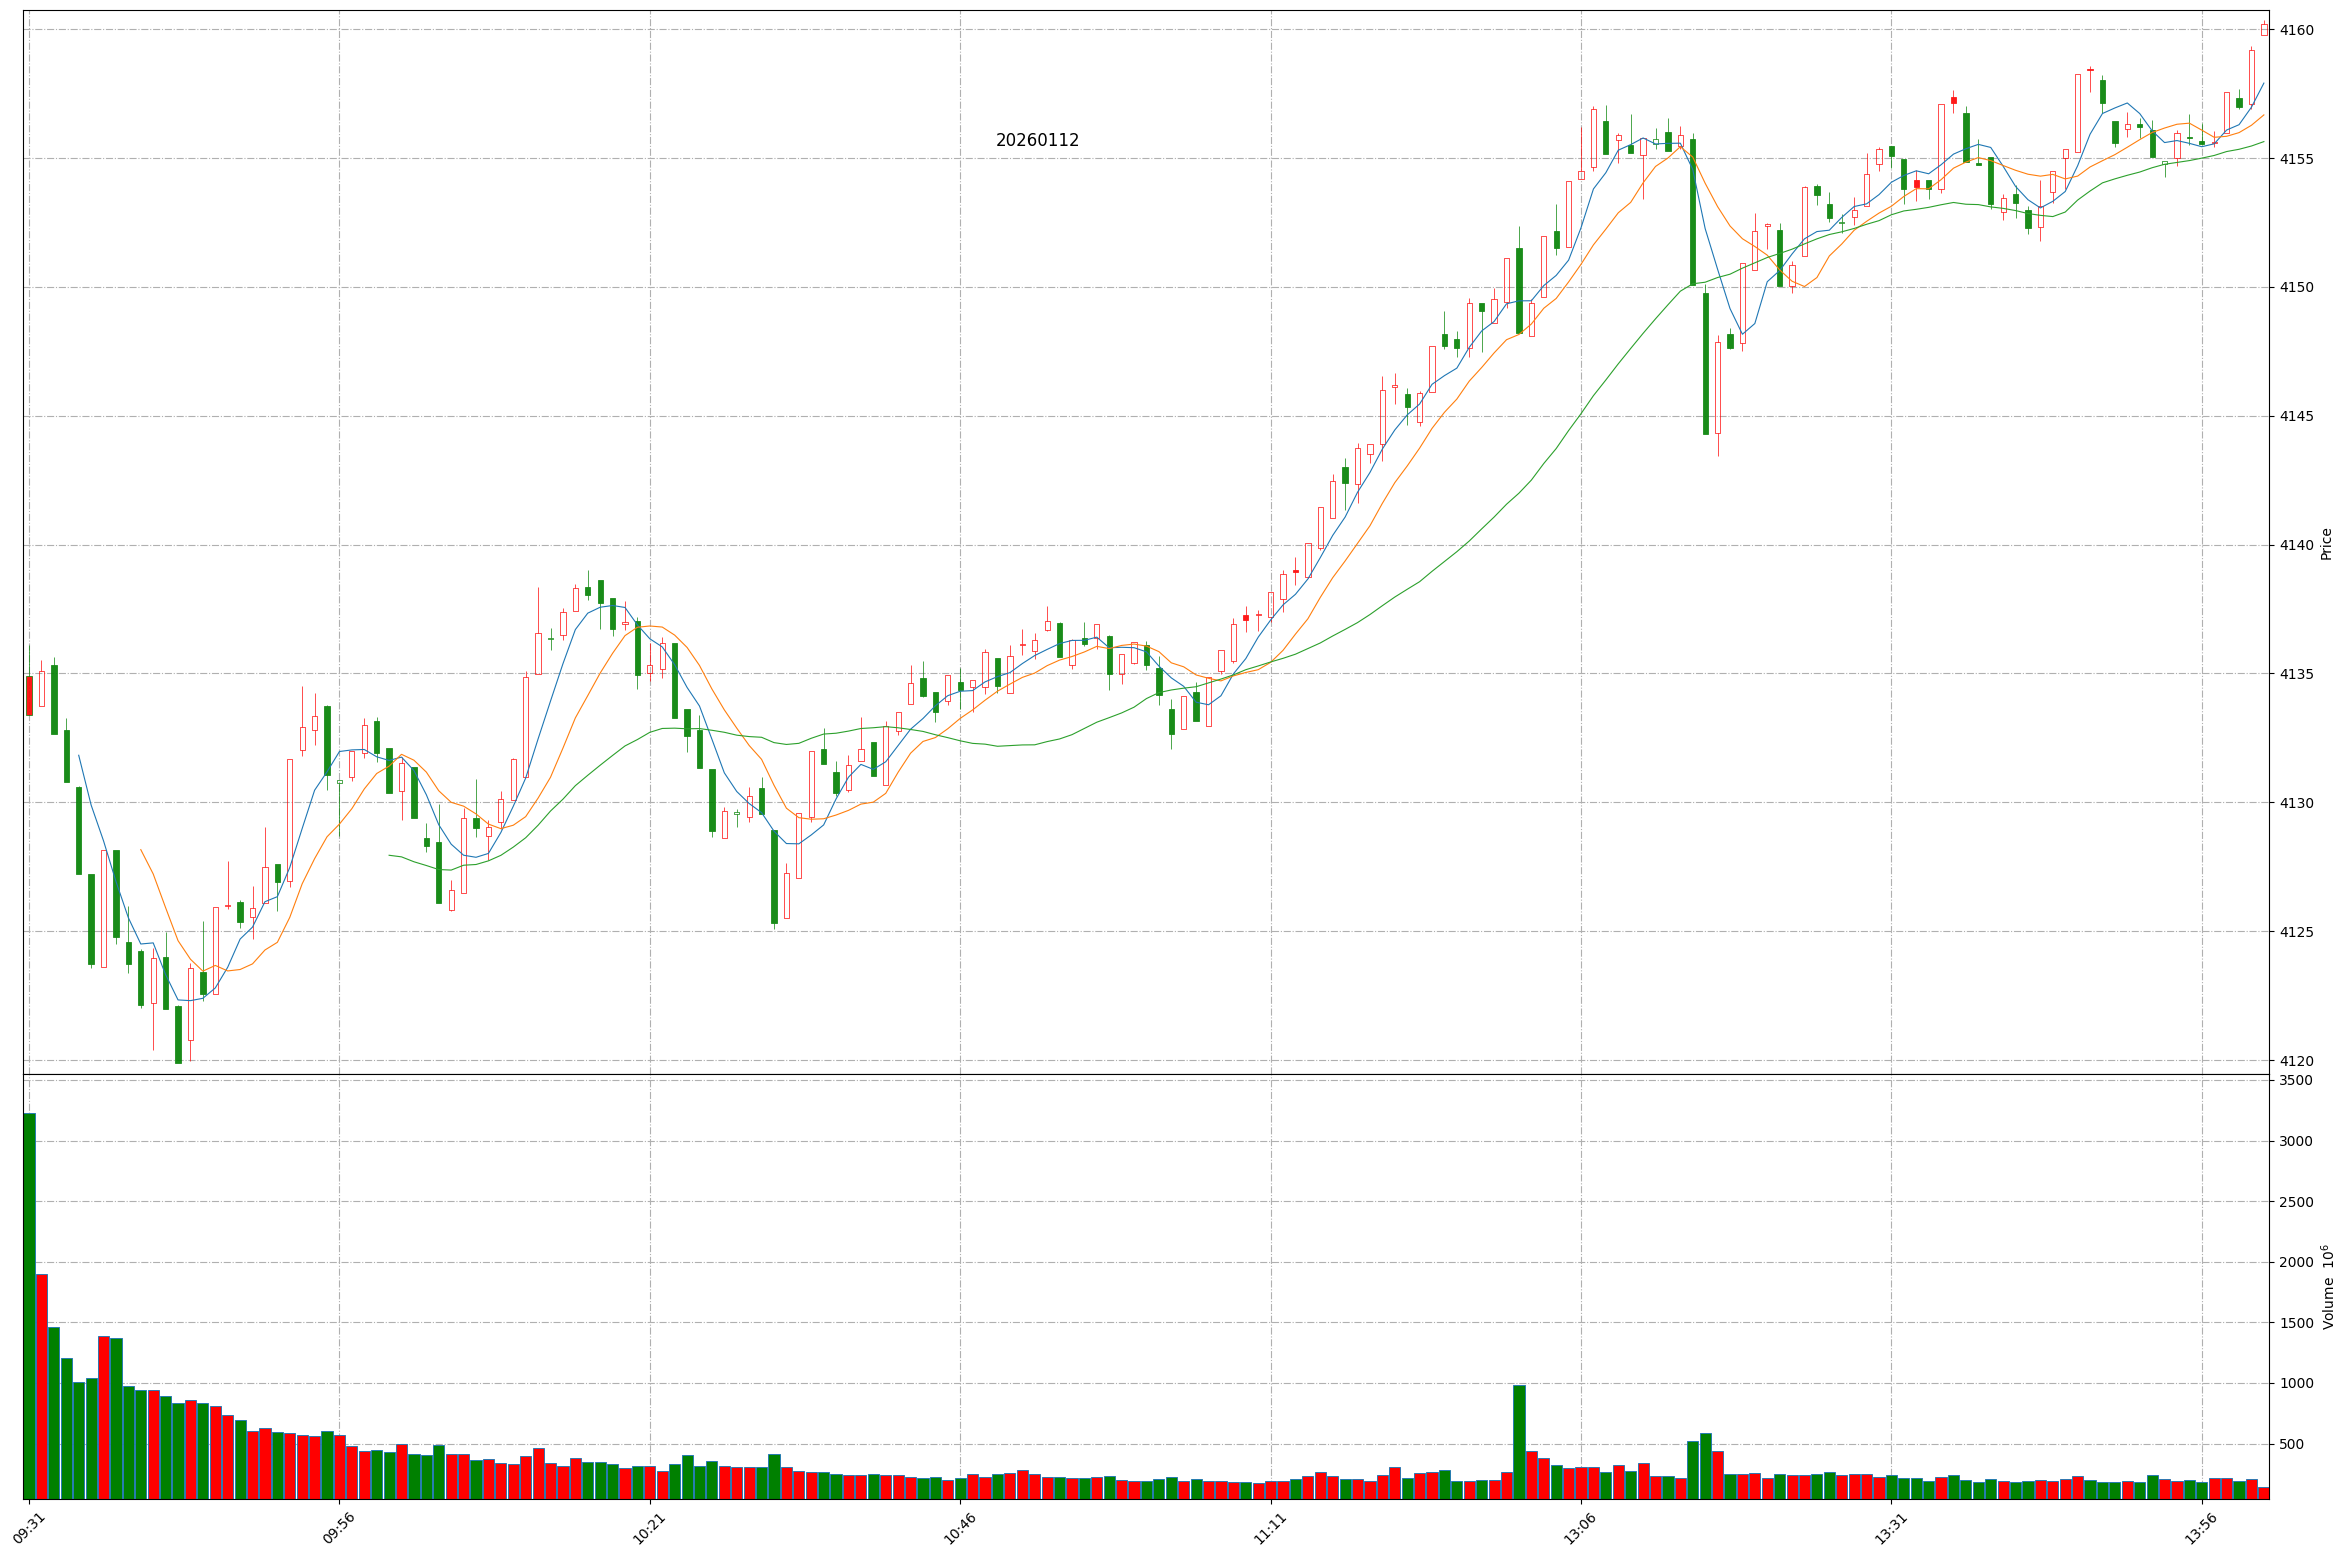
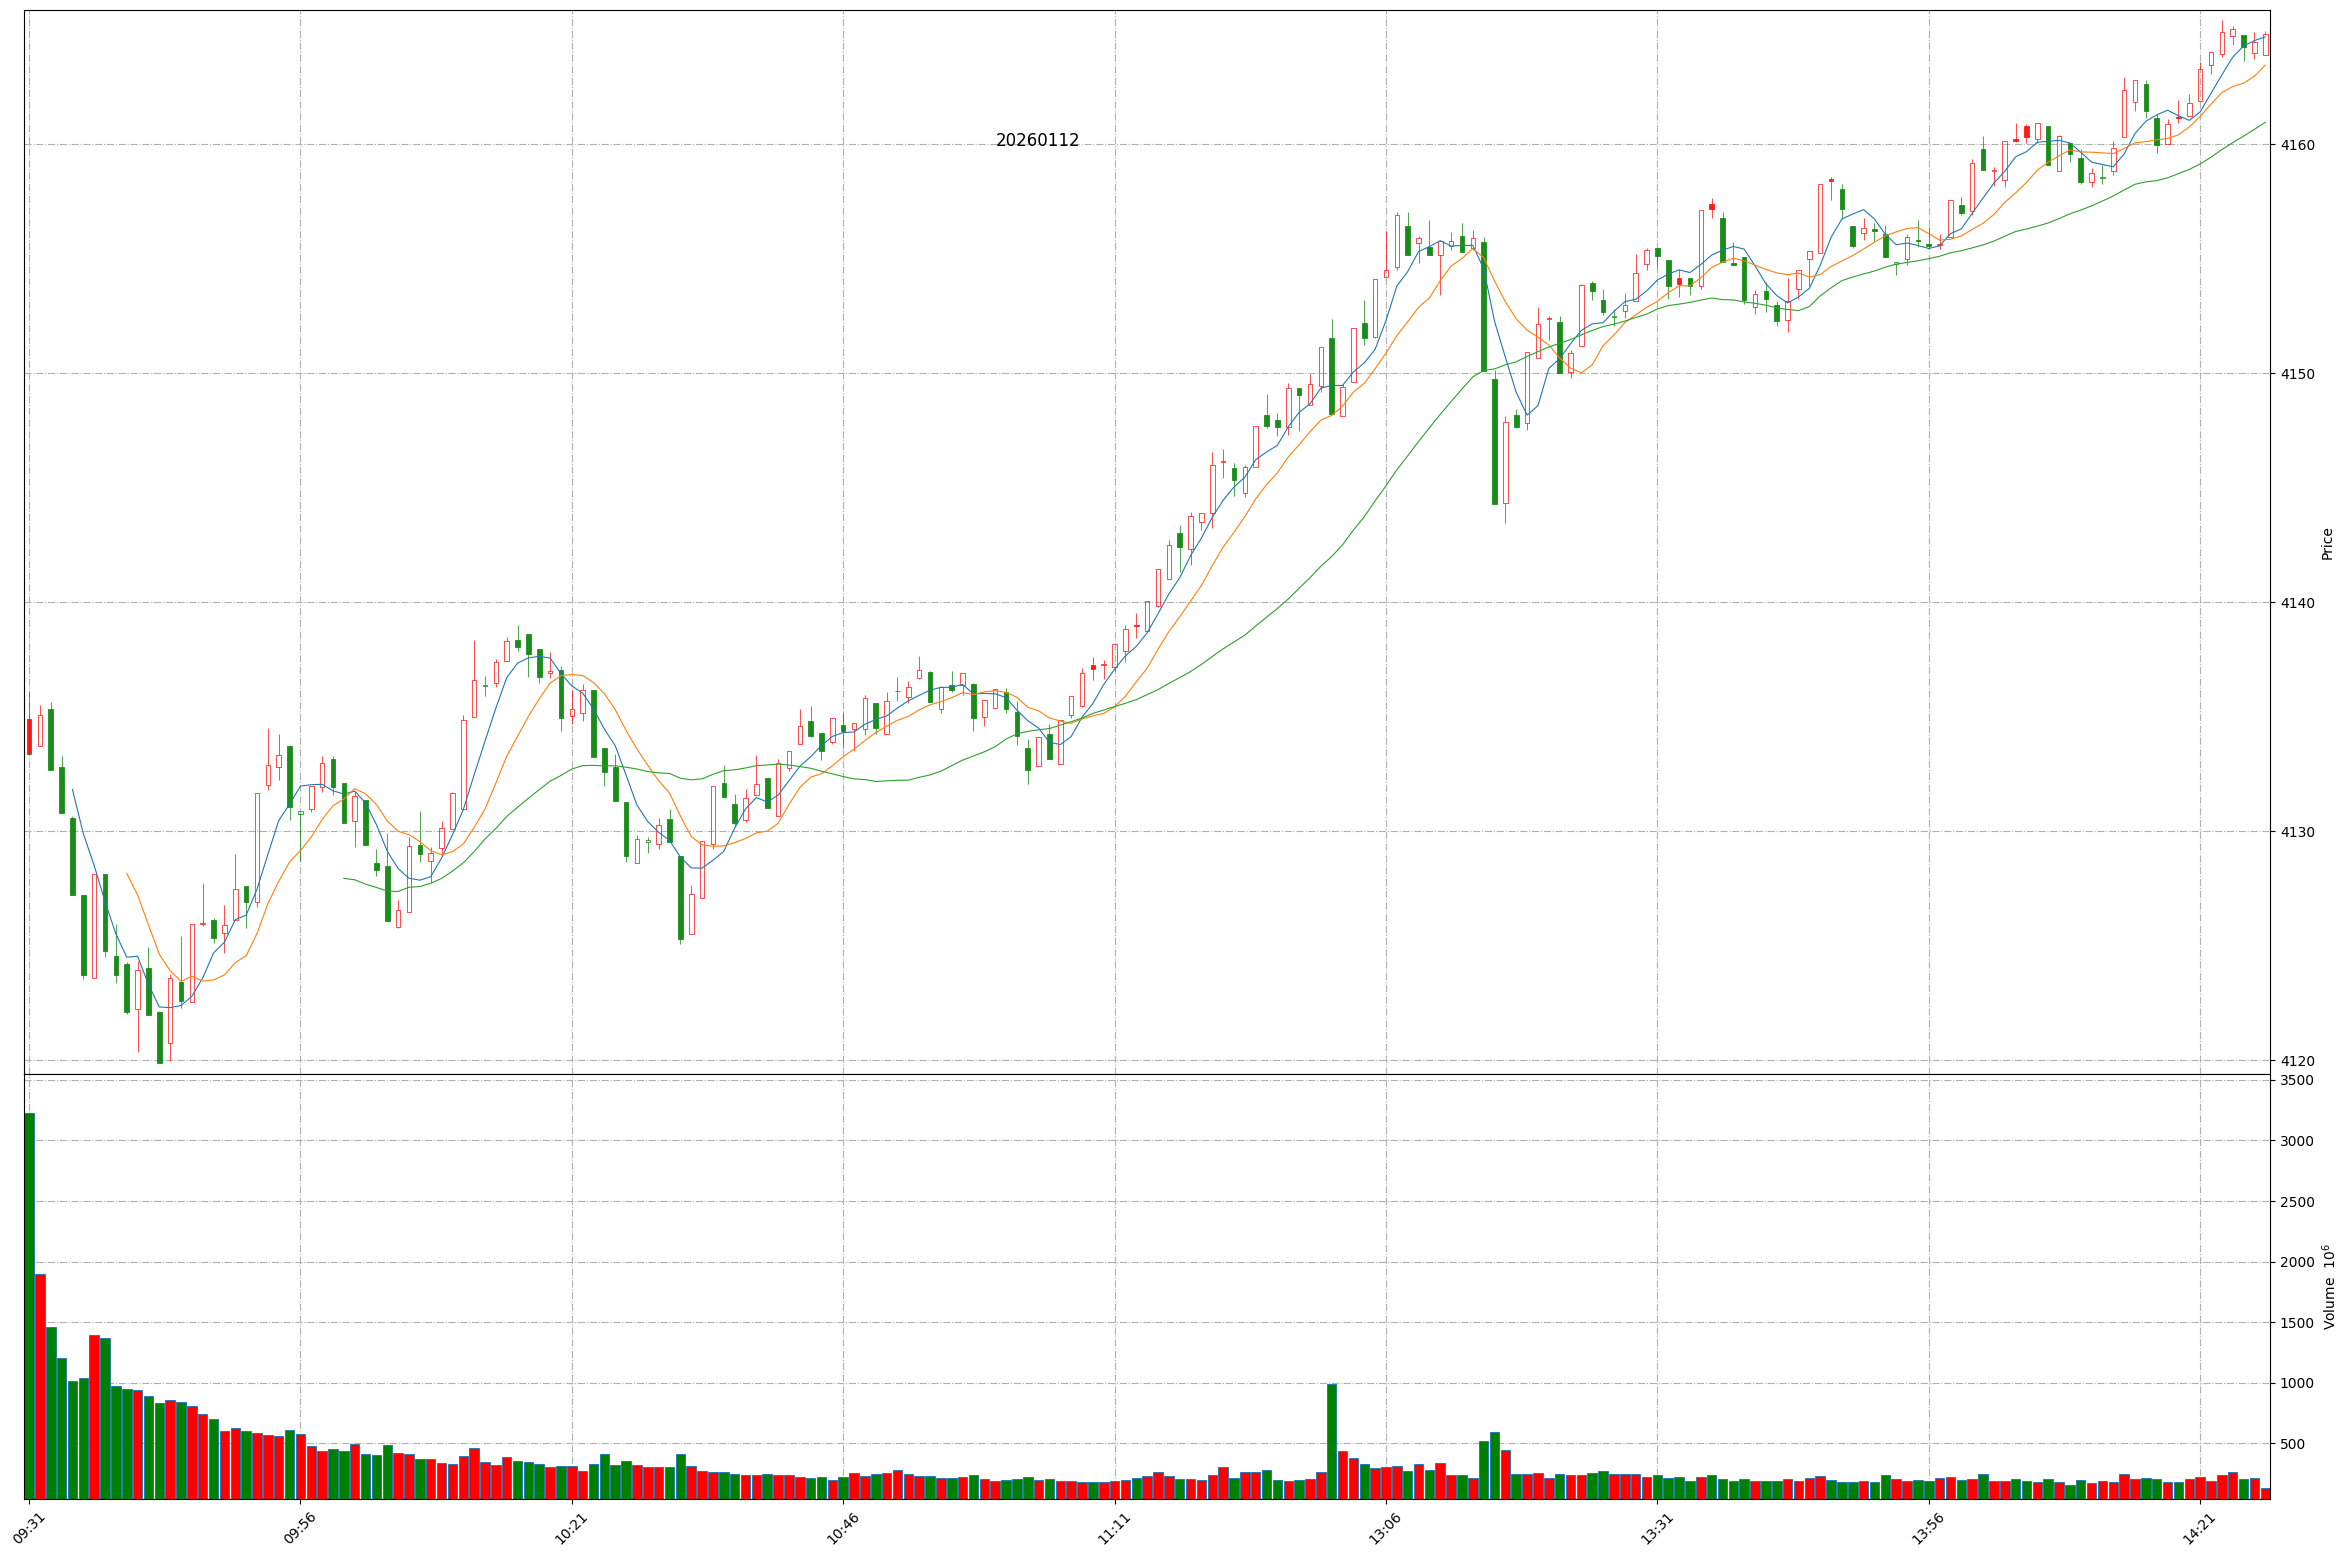
Github action update at 2026-01-12 14:26:54.

diff --git a/README.md b/README.md
@@ -1,11 +1,11 @@
 
 # Daily-A-share-market-quotes 每日 A 股指数（5min 更新）- 20260112
 
-### 上证指数 20260112 14:0
+### 上证指数 20260112 14:26
 ![](./fig/2026/1/20260112-sh000001.png)
 
-### 深证成指 20260112 14:0
+### 深证成指 20260112 14:26
 ![](./fig/2026/1/20260112-sz399001.png)
 
-### 北证50 20260112 14:0
+### 北证50 20260112 14:26
 ![](./fig/2026/1/20260112-bj899050.png)
